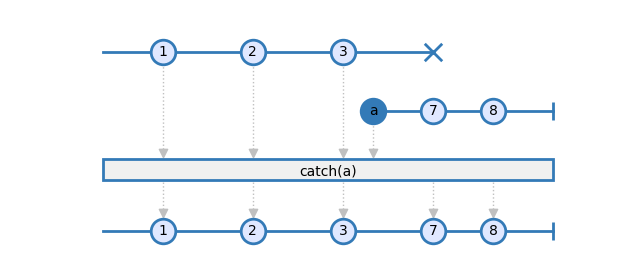
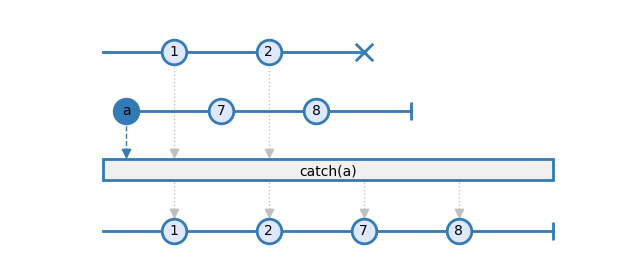
Separate item and layer links, update catch example

diff --git a/dooble/marble.py b/dooble/marble.py
@@ -47,7 +47,8 @@ class Marble(object):
     def __init__(self):
         self.layers = []
         self.higher_order_links = []
-        self.emission_links = []
+        self.item_links = []
+        self.label_links = []
         return
 
     def add_observable(self, observable):
@@ -57,12 +58,15 @@ class Marble(object):
         self.layers.append(operator)
 
     def _compute_higher_order_links(self):
-        def nearest_links(parents, childs):
+        def nearest_links(parents, children):
             links = []
             for parent in parents:
+                dist = None
                 nearest = None
-                for child in childs:
-                    if nearest is None or abs(parent[0] - child[0]) < abs(parent[0] - nearest[0]):
+                for child in children:
+                    d = abs(parent[0] - child[0])
+                    if nearest is None or d < dist:
+                        dist = d
                         nearest = child
 
                 if nearest is not None:
@@ -73,59 +77,74 @@ class Marble(object):
 
             return links
 
-        childs = []
+        children = []
         parents = []
         links = []
         for layer_index, layer in enumerate(self.layers):
             if type(layer) is Operator:
-                links.extend(nearest_links(parents, childs))
-                childs = []
-                parents = []
+                links.extend(nearest_links(parents, children))
+                children.clear()
+                parents.clear()
             elif type(layer) is Observable:
                 if layer.is_child is True:
-                    childs.append((layer.start, layer_index))
+                    children.append((layer.start, layer_index))
                 else:
                     for item in layer.items:
                         if type(item) is ObsItem:
                             parents.append((item.at, layer_index))
 
-        links.extend(nearest_links(parents, childs))
+        links.extend(nearest_links(parents, children))
         return links
 
-    def _compute_emmision_links(self):
-        def emission_links(top_layer, bottom_layer, items):
-            links = []
-            for item in items:                
-                if top_layer is not None:
-                    links.append(Link(
-                        from_x=item[0], from_y=top_layer,
-                        to_x=item[0], to_y=item[1],
-                    ))
-                if bottom_layer is not None:
-                    links.append(Link(
-                        from_x=item[0], from_y=item[1],
-                        to_x=item[0], to_y=bottom_layer,
-                    ))
-            return links
+    @staticmethod
+    def _append_links(links, top_layer, bottom_layer, items):
+        for item in items:
+            if top_layer is not None:
+                links.append(Link(
+                    from_x=item[0], from_y=top_layer,
+                    to_x=item[0], to_y=item[1],
+                ))
+            if bottom_layer is not None:
+                links.append(Link(
+                    from_x=item[0], from_y=item[1],
+                    to_x=item[0], to_y=bottom_layer,
+                ))
+        return links
 
+    def _compute_item_links(self):
         top_layer = None
         items = []
         links = []
         for layer_index, layer in enumerate(self.layers):
             if type(layer) is Operator:
-                links.extend(emission_links(top_layer, layer_index, items))
-                items = []
+                Marble._append_links(links, top_layer, layer_index, items)
+                items.clear()
+                top_layer = layer_index
+            elif type(layer) is Observable:
+                if layer.label is None:
+                    for item in layer.items:
+                        items.append((item.at, layer_index))
+
+        Marble._append_links(links, top_layer, None, items)
+        return links
+
+    def _compute_label_links(self):
+        top_layer = None
+        items = []
+        links = []
+        for layer_index, layer in enumerate(self.layers):
+            if type(layer) is Operator:
+                Marble._append_links(links, top_layer, layer_index, items)
+                items.clear()
                 top_layer = layer_index
             elif type(layer) is Observable:
                 if layer.label is not None:
                     items.append((layer.start, layer_index))
-                else:
-                    for item in layer.items:
-                        items.append((item.at, layer_index))
 
-        links.extend(emission_links(top_layer, None, items))
+        Marble._append_links(links, top_layer, None, items)
         return links
 
     def build(self):
         self.higher_order_links = self._compute_higher_order_links()
-        self.emission_links = self._compute_emmision_links()
+        self.item_links = self._compute_item_links()
+        self.label_links = self._compute_label_links()

diff --git a/dooble/render.py b/dooble/render.py
@@ -22,16 +22,27 @@ def render_to_file(marble, filename, theme):
             color=theme.timeline_color, linestyle='-',
             linewidth='2', zorder=0)
 
-    # emission links
-    for link in marble.emission_links:
+    # item links
+    for link in marble.item_links:
         ax.plot(
             [link.from_x, link.to_x],
             [plt_y(link.from_y), plt_y(link.to_y)],
-            color=theme.emission_color, linestyle=':',
+            color=theme.item_link_color, linestyle=':',
             linewidth='1', zorder=0)
         ax.scatter(
             [link.to_x], [plt_y(link.to_y) + 0.3],
-            color=theme.emission_color, marker='v', linewidth='1')
+            color=theme.item_link_color, marker='v', linewidth='1')
+
+    # label links
+    for link in marble.label_links:
+        ax.plot(
+            [link.from_x, link.to_x],
+            [plt_y(link.from_y), plt_y(link.to_y)],
+            color=theme.label_link_color, linestyle='--',
+            linewidth='1', zorder=0)
+        ax.scatter(
+            [link.to_x], [plt_y(link.to_y) + 0.3],
+            color=theme.label_link_color, marker='v', linewidth='1')
 
     for layer_index, layer in enumerate(marble.layers):
         if type(layer) is Observable:

diff --git a/dooble/dooble.py b/dooble/dooble.py
@@ -4,9 +4,10 @@ from dooble.marble import Marble, Observable, Operator
 
 Theme = namedtuple('Theme', [
     'timeline_color',
-    'emission_color',
     'item_color',
+    'item_link_color',
     'label_color',
+    'label_link_color',
     'operator_color',
     'operator_edge_color',
 ])
@@ -17,17 +18,22 @@ default_theme = Theme(
         float(0x7A) / 0xFF,
         float(0xB7) / 0xFF,
     ),
-    emission_color=(
-        float(0xC0) / 0xFF,
-        float(0xC0) / 0xFF,
-        float(0xC0) / 0xFF,
-    ),
     item_color=(
         float(0xE0) / 0xFF,
         float(0xE8) / 0xFF,
         float(0xFF) / 0xFF,
     ),
+    item_link_color=(
+        float(0xC0) / 0xFF,
+        float(0xC0) / 0xFF,
+        float(0xC0) / 0xFF,
+    ),
     label_color=(
+        float(0x33) / 0xFF,
+        float(0x7A) / 0xFF,
+        float(0xB7) / 0xFF,
+    ),
+    label_link_color=(
         float(0x33) / 0xFF,
         float(0x7A) / 0xFF,
         float(0xB7) / 0xFF,
